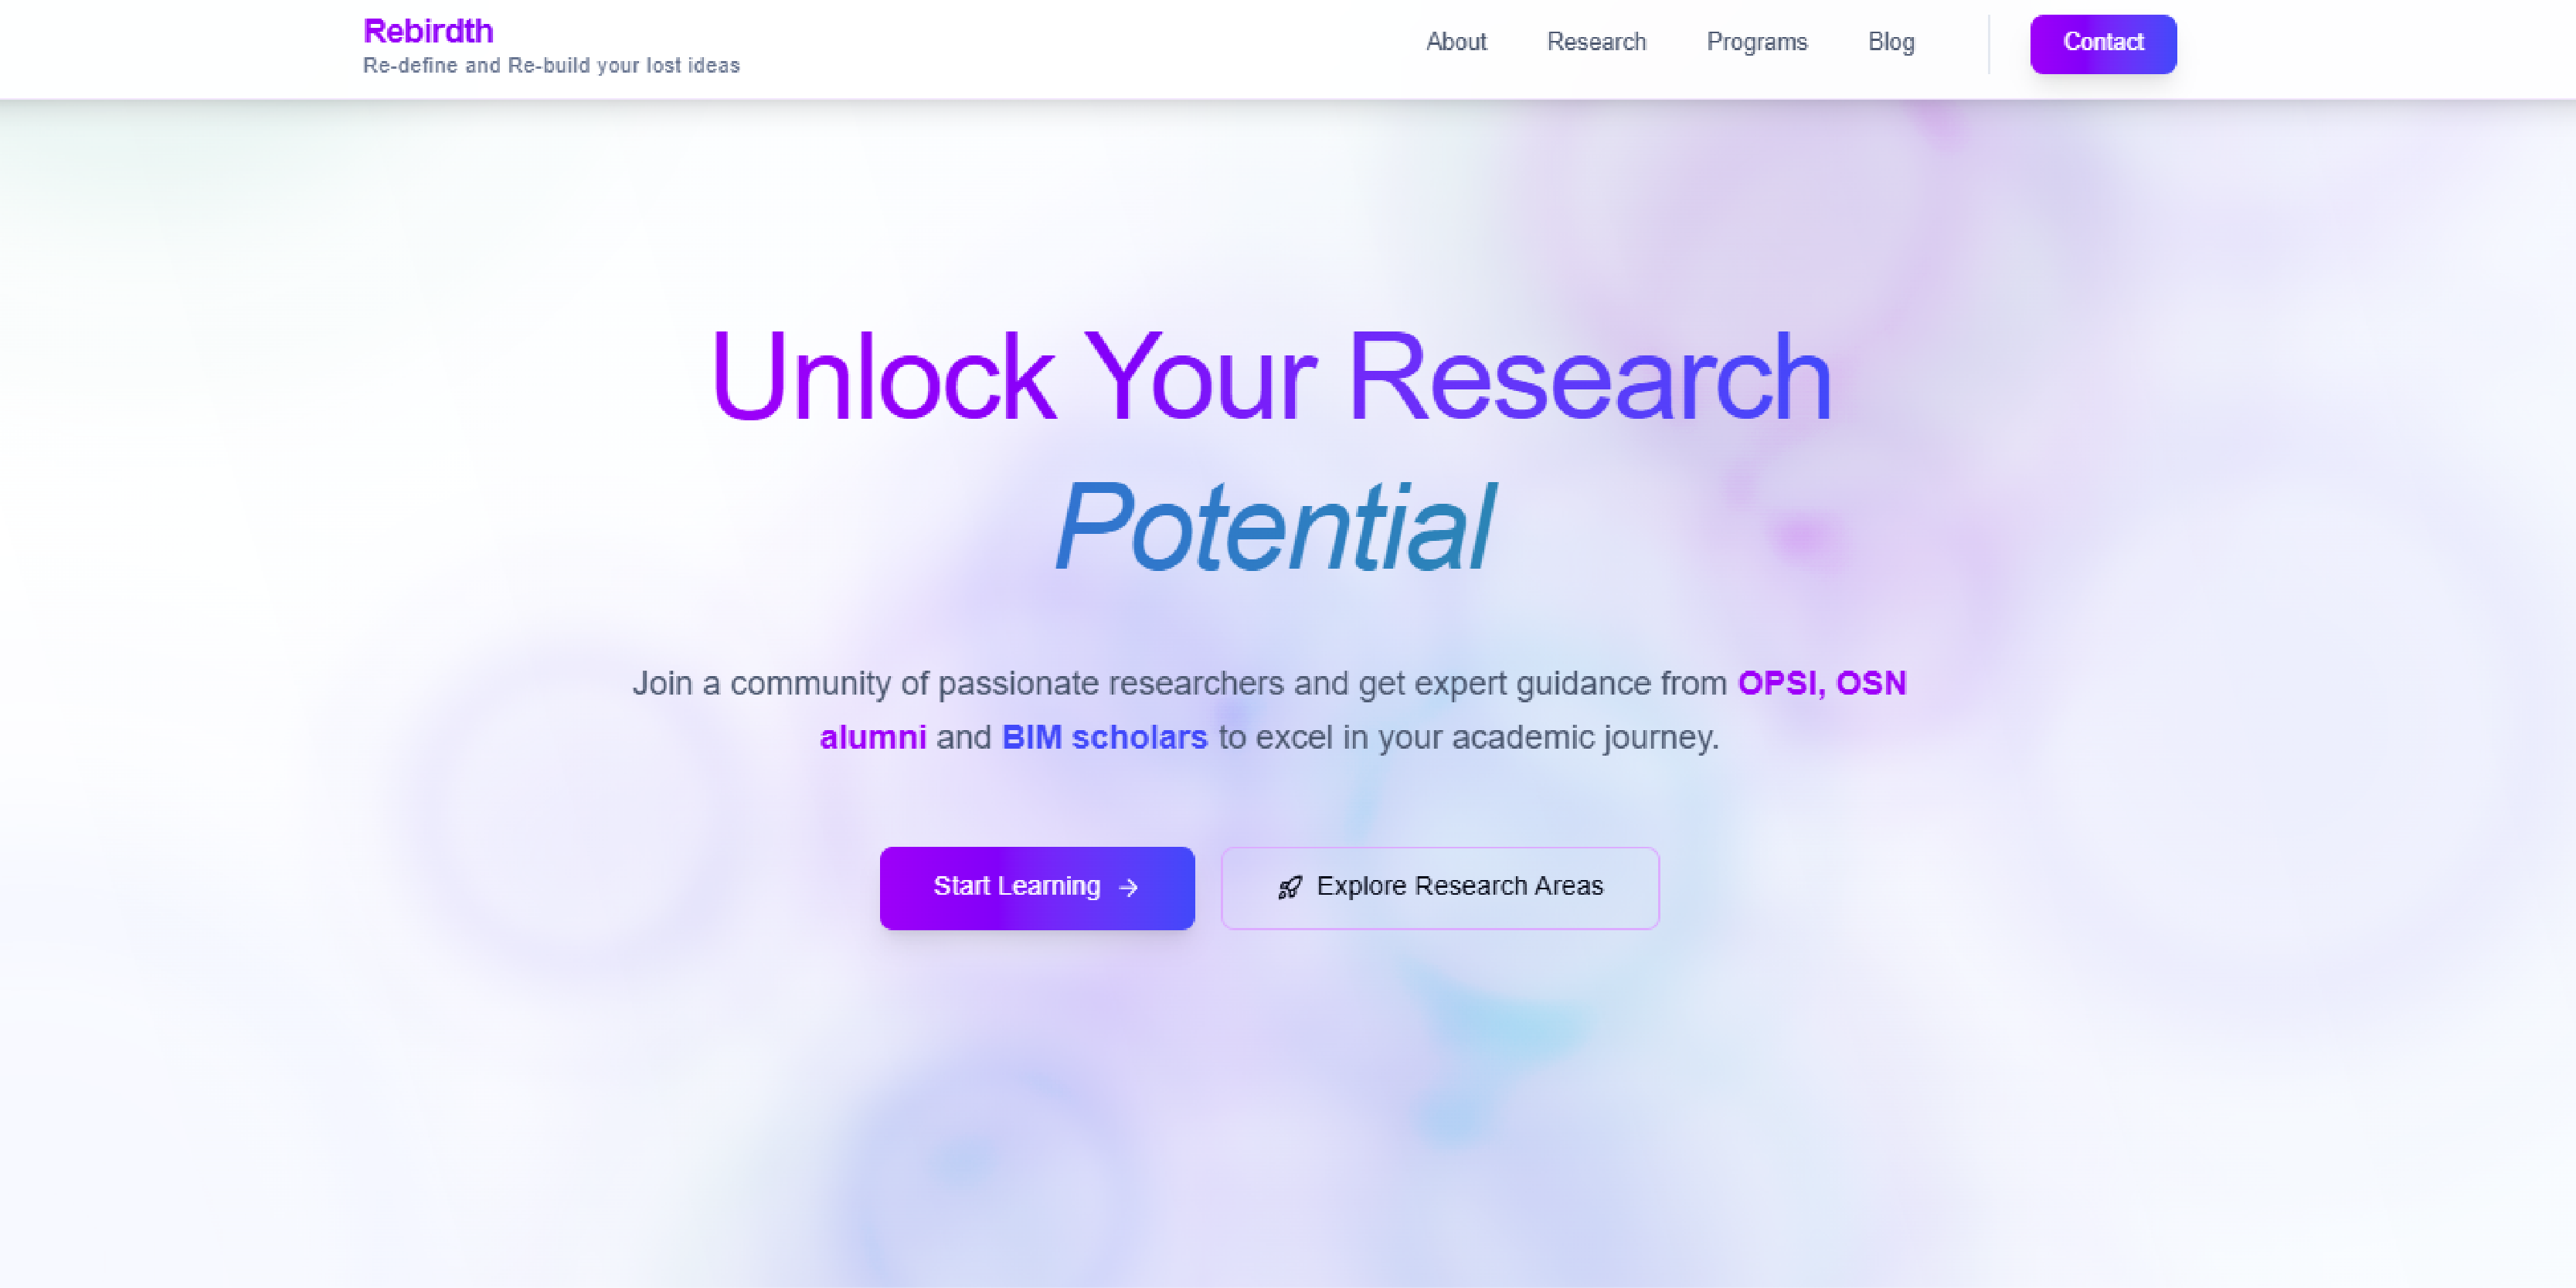
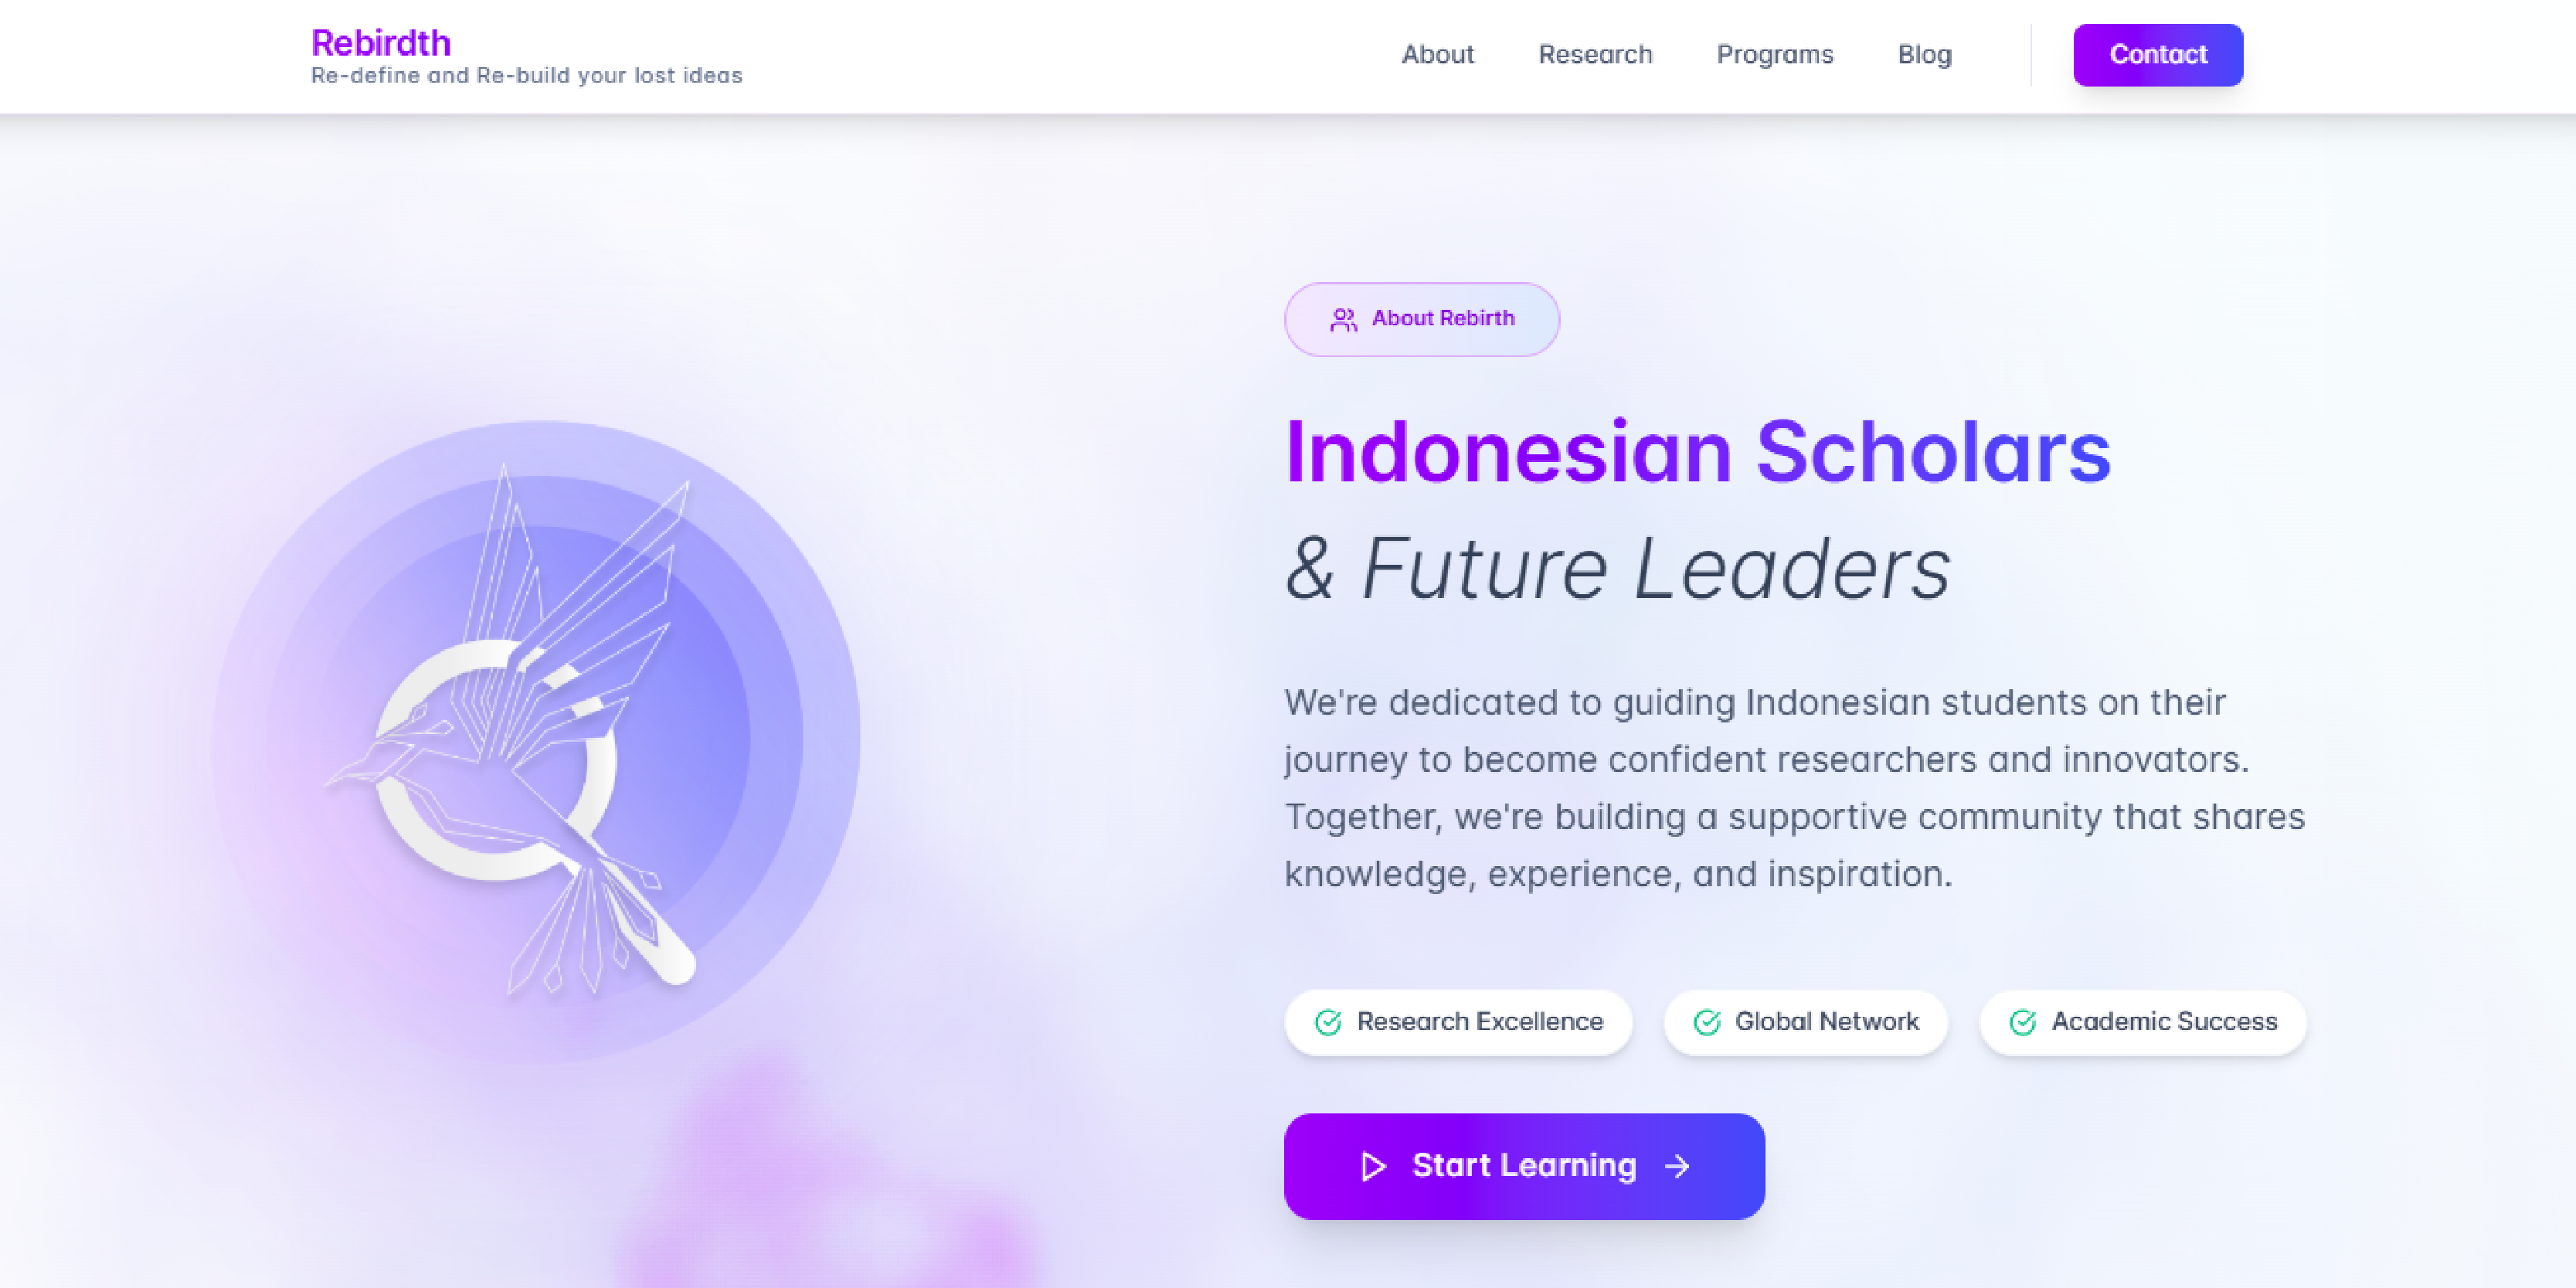
change project description

diff --git a/src/app/projects/components/ProjectsList.tsx b/src/app/projects/components/ProjectsList.tsx
@@ -83,7 +83,7 @@ export default function ProjectsList() {
       id: 4,
       slug: "rebirdth",
       title: "Rebirdth Educational Platform",
-      description: "Co‑founded and developed Rebirdth, a Next.js/TypeScript site that delivers research tutorials, peer‑mentoring events, and interactive articles for Indonesian students. Designed a responsive UI, content‑management workflows, and event pages that have onboarded dozens of learners into a supportive, student‑led research community.",
+      description: "Co‑founded and am currently developing Rebirdth, a student‑led community platform that empowers Indonesian students through research tutorials, peer‑mentoring events, and interactive articles. I design the website concept along with Instagram posts and reels to engage our audience. While the website is still under development, our community is actively sharing updates and educational content on Instagram @rebirdth.id.",
       skills: ["Next.js", "Three.js", "TypeScript", "React", "Tailwind CSS"],
       category: "Community Education Platform",
       imageUrl: "./public/rebirdth.png",